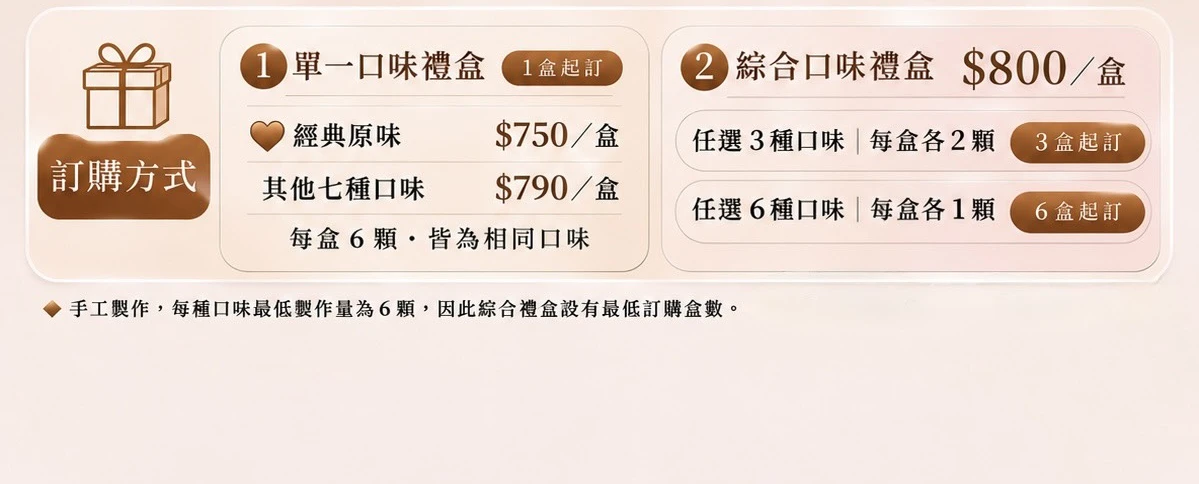
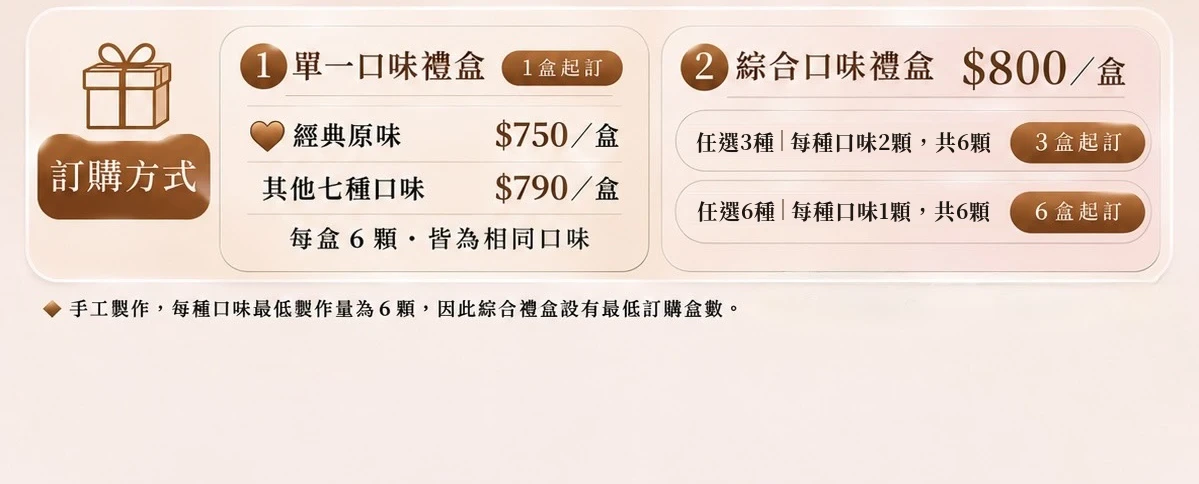
Canelé assorted box wording: 任選3種｜每種口味2顆，共6顆 / 任選6種｜每種口味1顆，共6顆
Patched only those two lines in the page image (Noto Serif TC Bold) and matched
the flavour-picker sheet; cache version 2026-11-19 a.

Changed region(s): [[0.5555, 0.4029, 0.8332, 0.4649], [0.5555, 0.2479, 0.8332, 0.3409]]

diff --git a/canele.html b/canele.html
@@ -12,7 +12,7 @@
 <link rel="apple-touch-icon" href="assets/apple-touch-icon.png">
 <link rel="preconnect" href="https://fonts.googleapis.com"><link rel="preconnect" href="https://fonts.gstatic.com" crossorigin>
 <link href="https://fonts.googleapis.com/css2?family=Noto+Serif+TC:wght@700;900&display=swap" rel="stylesheet">
-<link rel="stylesheet" href="css/app.css?v=1118u">
+<link rel="stylesheet" href="css/app.css?v=1119a">
 </head>
 <body>
 <div class="float-tools">
@@ -28,14 +28,14 @@
   <!-- design 311–828: the flavour cards (live) -->
   <div class="seg grid-rows" id="grid" style="height:calc(517 * var(--u));background-image:url(assets/v2/page-canele-mid.webp)"></div>
   <!-- design 828–1312: 訂購方式 (tap ① or ② to order) -->
-  <div class="seg" style="height:calc(484 * var(--u));background-image:url(assets/v2/page-canele-bottom.webp)">
+  <div class="seg" style="height:calc(484 * var(--u));background-image:url(assets/v2/page-canele-bottom.webp?v=1119a)">
     <button class="hot" id="single" aria-label="單一口味禮盒：選口味" style="left:calc(218*var(--u));top:calc(23*var(--u));width:calc(435*var(--u));height:calc(253*var(--u));border-radius:calc(26*var(--u))"></button>
     <button class="hot" id="mixed" aria-label="綜合口味禮盒：組合口味" style="left:calc(659*var(--u));top:calc(23*var(--u));width:calc(505*var(--u));height:calc(253*var(--u));border-radius:calc(26*var(--u))"></button>
   </div>
 </main>
-<script src="js/config.js?v=1118u"></script>
-<script src="js/app.js?v=1118u"></script>
-<script src="js/shop.js?v=1118u"></script>
+<script src="js/config.js?v=1119a"></script>
+<script src="js/app.js?v=1119a"></script>
+<script src="js/shop.js?v=1119a"></script>
 <script>
   NTC.$('#cartbtn').insertAdjacentHTML('afterbegin', NTC.CART_SVG);
   NTC.$('#back').onclick = NTC.back;

diff --git a/reserve.html b/reserve.html
@@ -8,16 +8,16 @@
 <link rel="apple-touch-icon" href="assets/apple-touch-icon.png">
 <link rel="preconnect" href="https://fonts.googleapis.com"><link rel="preconnect" href="https://fonts.gstatic.com" crossorigin>
 <link href="https://fonts.googleapis.com/css2?family=Noto+Serif+TC:wght@700;900&display=swap" rel="stylesheet">
-<link rel="stylesheet" href="css/app.css?v=1118u">
+<link rel="stylesheet" href="css/app.css?v=1119a">
 <title>預約／訂購｜N.T Cookie × N.T Canelé</title>
 <meta name="description" content="選擇希望到貨的日期，再挑選可麗露禮盒、馬林糖一口酥，線上下單。">
 </head>
 <body>
 <header class="topbar"><button class="circle-btn" id="back" aria-label="返回"><svg viewBox="0 0 24 24"><path d="M15 5l-7 7 7 7"/></svg></button><h1>預約／訂購</h1><a class="circle-btn" href="cart.html" aria-label="購物車"><svg viewBox="0 0 24 24"><path d="M3 4h2.2l2.1 10.2a1.6 1.6 0 0 0 1.6 1.3h8.6a1.6 1.6 0 0 0 1.6-1.2L21 8H6.2"/><circle cx="9.5" cy="19.5" r="1.4"/><circle cx="17" cy="19.5" r="1.4"/></svg><span class="badge" data-cart-count></span></a></header>
 <main class="wrap" id="app"><div class="spinner"></div></main>
-<script src="js/config.js?v=1118u"></script>
-<script src="js/app.js?v=1118u"></script>
-<script src="js/shop.js?v=1118u"></script>
+<script src="js/config.js?v=1119a"></script>
+<script src="js/app.js?v=1119a"></script>
+<script src="js/shop.js?v=1119a"></script>
 <script>
 (async function () {
   const { $, esc } = NTC;

diff --git a/js/shop.js b/js/shop.js
@@ -115,7 +115,7 @@
     const { el, close } = NTC.sheet(`
       <h2>綜合口味禮盒 <span class="price" style="font-size:20px">${money(s.assortedPrice)} <small>/ 盒</small></span></h2>
       <p class="sub">手工製作，每種口味最低製作量為 6 顆，因此綜合禮盒設有最低訂購盒數。❄ 冷凍宅配寄送。</p>
-      <div class="modes">${s.modes.map((m) => `<button type="button" class="opt" data-m="${m.id}"><span class="dot"></span><span class="t">任選 ${m.flavors} 種口味<small>每盒各 ${m.each} 顆・${m.minBoxes} 盒起訂</small></span></button>`).join('')}</div>
+      <div class="modes">${s.modes.map((m) => `<button type="button" class="opt" data-m="${m.id}"><span class="dot"></span><span class="t">任選 ${m.flavors} 種<small>每種口味 ${m.each} 顆，共 ${m.flavors * m.each} 顆・${m.minBoxes} 盒起訂</small></span></button>`).join('')}</div>
       <div class="row" style="margin:6px 0 8px"><b>選口味</b><span class="sp"></span><span class="note cnt"></span></div>
       <div class="chips fl">${fl.map((p) => `<button type="button" class="chip" data-id="${esc(p.id)}" ${p.soldOut ? 'disabled' : ''}>${p.icon ? `<img src="${esc(asset(p.icon))}" alt="">` : ''}${esc(p.name)}${p.soldOut ? '（售完）' : ''}</button>`).join('')}</div>
       <div class="row" style="margin:16px 0"><span style="font-weight:700">盒數</span><span class="note minnote"></span><span class="sp"></span><div class="qty"></div></div>

diff --git a/orders.html b/orders.html
@@ -8,16 +8,16 @@
 <link rel="apple-touch-icon" href="assets/apple-touch-icon.png">
 <link rel="preconnect" href="https://fonts.googleapis.com"><link rel="preconnect" href="https://fonts.gstatic.com" crossorigin>
 <link href="https://fonts.googleapis.com/css2?family=Noto+Serif+TC:wght@700;900&display=swap" rel="stylesheet">
-<link rel="stylesheet" href="css/app.css?v=1118u">
+<link rel="stylesheet" href="css/app.css?v=1119a">
 <title>我的訂單｜N.T Cookie × N.T Canelé</title>
 <meta name="robots" content="noindex">
 </head>
 <body>
 <header class="topbar"><button class="circle-btn" id="back" aria-label="返回"><svg viewBox="0 0 24 24"><path d="M15 5l-7 7 7 7"/></svg></button><h1>我的訂單</h1><a class="circle-btn" href="cart.html" aria-label="購物車"><svg viewBox="0 0 24 24"><path d="M3 4h2.2l2.1 10.2a1.6 1.6 0 0 0 1.6 1.3h8.6a1.6 1.6 0 0 0 1.6-1.2L21 8H6.2"/><circle cx="9.5" cy="19.5" r="1.4"/><circle cx="17" cy="19.5" r="1.4"/></svg><span class="badge" data-cart-count></span></a></header>
 <main class="wrap" id="app"><div class="spinner"></div></main>
-<script src="js/config.js?v=1118u"></script>
-<script src="js/app.js?v=1118u"></script>
-<script src="js/shop.js?v=1118u"></script>
+<script src="js/config.js?v=1119a"></script>
+<script src="js/app.js?v=1119a"></script>
+<script src="js/shop.js?v=1119a"></script>
 <script>
 (async function () {
   const { $, esc, money } = NTC;

diff --git a/shop.html b/shop.html
@@ -8,7 +8,7 @@
 <link rel="apple-touch-icon" href="assets/apple-touch-icon.png">
 <link rel="preconnect" href="https://fonts.googleapis.com"><link rel="preconnect" href="https://fonts.gstatic.com" crossorigin>
 <link href="https://fonts.googleapis.com/css2?family=Noto+Serif+TC:wght@700;900&display=swap" rel="stylesheet">
-<link rel="stylesheet" href="css/app.css?v=1118u">
+<link rel="stylesheet" href="css/app.css?v=1119a">
 <title>線上商店｜N.T Cookie × N.T Canelé</title>
 <meta name="description" content="N.T Cookie × N.T Canelé 線上商店：可麗露禮盒、馬林糖一口酥，線上下單、LINE Pay 付款。">
 </head>
@@ -22,9 +22,9 @@
     <a class="btn line block" id="custom">LINE 詢問客製</a></div>
   <a class="btn ghost block" href="orders.html">我的訂單</a>
 </main>
-<script src="js/config.js?v=1118u"></script>
-<script src="js/app.js?v=1118u"></script>
-<script src="js/shop.js?v=1118u"></script>
+<script src="js/config.js?v=1119a"></script>
+<script src="js/app.js?v=1119a"></script>
+<script src="js/shop.js?v=1119a"></script>
 <script>
   NTC.$('#back').onclick = NTC.back;
   NTC.$('#custom').href = NTC.chatUrl('您好，我想詢問客製造型餅乾\n使用日期：\n數量：\n圖案／參考照片：');

diff --git a/admin.html b/admin.html
@@ -9,7 +9,7 @@
 <link rel="icon" href="assets/favicon.png">
 <link rel="preconnect" href="https://fonts.googleapis.com"><link rel="preconnect" href="https://fonts.gstatic.com" crossorigin>
 <link href="https://fonts.googleapis.com/css2?family=Noto+Serif+TC:wght@700;900&display=swap" rel="stylesheet">
-<link rel="stylesheet" href="css/app.css?v=1118u">
+<link rel="stylesheet" href="css/app.css?v=1119a">
 <style>
   :root { --page: 760px; }
   .tabs { position: sticky; top: 63px; z-index: 20; display: flex; gap: 6px; max-width: var(--page); margin: 0 auto; padding: 8px 14px; background: rgba(248, 237, 231, .96); }
@@ -61,8 +61,8 @@
 <div class="shopbar" id="shopbar" hidden></div>
 <main class="wrap" id="app"><div class="spinner"></div></main>
 <p class="note" id="ver" style="text-align:center;margin:0 0 24px;color:var(--muted)"></p>
-<script src="js/config.js?v=1118u"></script>
-<script src="js/app.js?v=1118u"></script>
+<script src="js/config.js?v=1119a"></script>
+<script src="js/app.js?v=1119a"></script>
 <script>
 (async function () {
   const { $, esc, money, asset } = NTC;

diff --git a/meringue.html b/meringue.html
@@ -12,7 +12,7 @@
 <link rel="apple-touch-icon" href="assets/apple-touch-icon.png">
 <link rel="preconnect" href="https://fonts.googleapis.com"><link rel="preconnect" href="https://fonts.gstatic.com" crossorigin>
 <link href="https://fonts.googleapis.com/css2?family=Noto+Serif+TC:wght@700;900&display=swap" rel="stylesheet">
-<link rel="stylesheet" href="css/app.css?v=1118u">
+<link rel="stylesheet" href="css/app.css?v=1119a">
 </head>
 <body>
 <main class="dz dz-941">
@@ -30,9 +30,9 @@
   <!-- design 1496–1672: footer line -->
   <div class="seg" style="height:calc(176 * var(--u));background-image:url(assets/v2/page-meringue-bottom.webp)"></div>
 </main>
-<script src="js/config.js?v=1118u"></script>
-<script src="js/app.js?v=1118u"></script>
-<script src="js/shop.js?v=1118u"></script>
+<script src="js/config.js?v=1119a"></script>
+<script src="js/app.js?v=1119a"></script>
+<script src="js/shop.js?v=1119a"></script>
 <script>
   NTC.$('#back').onclick = NTC.back;
   NTC.$('#menu').onclick = NTC.openMenu;

diff --git a/order.html b/order.html
@@ -9,7 +9,7 @@
 <link rel="icon" href="assets/favicon.png">
 <link rel="preconnect" href="https://fonts.googleapis.com"><link rel="preconnect" href="https://fonts.gstatic.com" crossorigin>
 <link href="https://fonts.googleapis.com/css2?family=Noto+Serif+TC:wght@700;900&display=swap" rel="stylesheet">
-<link rel="stylesheet" href="css/app.css?v=1118u">
+<link rel="stylesheet" href="css/app.css?v=1119a">
 </head>
 <body>
 <header class="topbar">
@@ -18,8 +18,8 @@
   <a class="circle-btn" href="orders.html" aria-label="我的訂單"><svg viewBox="0 0 24 24"><path d="M7 3h10a1 1 0 0 1 1 1v17l-3-2-3 2-3-2-3 2V4a1 1 0 0 1 1-1z"/><path d="M9 8h6M9 12h6"/></svg></a>
 </header>
 <main class="wrap" id="app"><div class="spinner"></div></main>
-<script src="js/config.js?v=1118u"></script>
-<script src="js/app.js?v=1118u"></script>
+<script src="js/config.js?v=1119a"></script>
+<script src="js/app.js?v=1119a"></script>
 <script>
 (async function () {
   const { $, esc, money } = NTC;

diff --git a/cart.html b/cart.html
@@ -9,7 +9,7 @@
 <link rel="icon" href="assets/favicon.png">
 <link rel="preconnect" href="https://fonts.googleapis.com"><link rel="preconnect" href="https://fonts.gstatic.com" crossorigin>
 <link href="https://fonts.googleapis.com/css2?family=Noto+Serif+TC:wght@700;900&display=swap" rel="stylesheet">
-<link rel="stylesheet" href="css/app.css?v=1118u">
+<link rel="stylesheet" href="css/app.css?v=1119a">
 </head>
 <body>
 <header class="topbar">
@@ -19,9 +19,9 @@
 </header>
 <main class="wrap" id="app"><div class="spinner"></div></main>
 
-<script src="js/config.js?v=1118u"></script>
-<script src="js/app.js?v=1118u"></script>
-<script src="js/shop.js?v=1118u"></script>
+<script src="js/config.js?v=1119a"></script>
+<script src="js/app.js?v=1119a"></script>
+<script src="js/shop.js?v=1119a"></script>
 <script>
 (async function () {
   const { $, esc, money, asset } = NTC;

diff --git a/index.html b/index.html
@@ -16,7 +16,7 @@
 <link rel="icon" href="assets/favicon.png">
 <link rel="apple-touch-icon" href="assets/apple-touch-icon.png">
 <link rel="preload" as="image" href="assets/v2/page-home.webp" type="image/webp">
-<link rel="stylesheet" href="css/app.css?v=1118u">
+<link rel="stylesheet" href="css/app.css?v=1119a">
 <style>
   /* The page IS the design (S__10682424, 941 px wide): the design sits underneath as the background
      and each tappable area is laid on top at its crop-coordinates.csv position. */
@@ -68,8 +68,8 @@
   </div>
 </div>
 
-<script src="js/config.js?v=1118u"></script>
-<script src="js/app.js?v=1118u"></script>
+<script src="js/config.js?v=1119a"></script>
+<script src="js/app.js?v=1119a"></script>
 <script>
   /* ================= 連結設定 =================
      'line'          → 開啟 LINE 官方帳號聊天室

diff --git a/js/config.js b/js/config.js
@@ -5,5 +5,5 @@ window.NTC_CONFIG = {
   lineId: '@ntcookie',
   base: '',
   home: 'index.html',
-  version: '2026-11-18 u', // 每次上版改這裡，後台最下面會顯示
+  version: '2026-11-19 a', // 每次上版改這裡，後台最下面會顯示
 };
